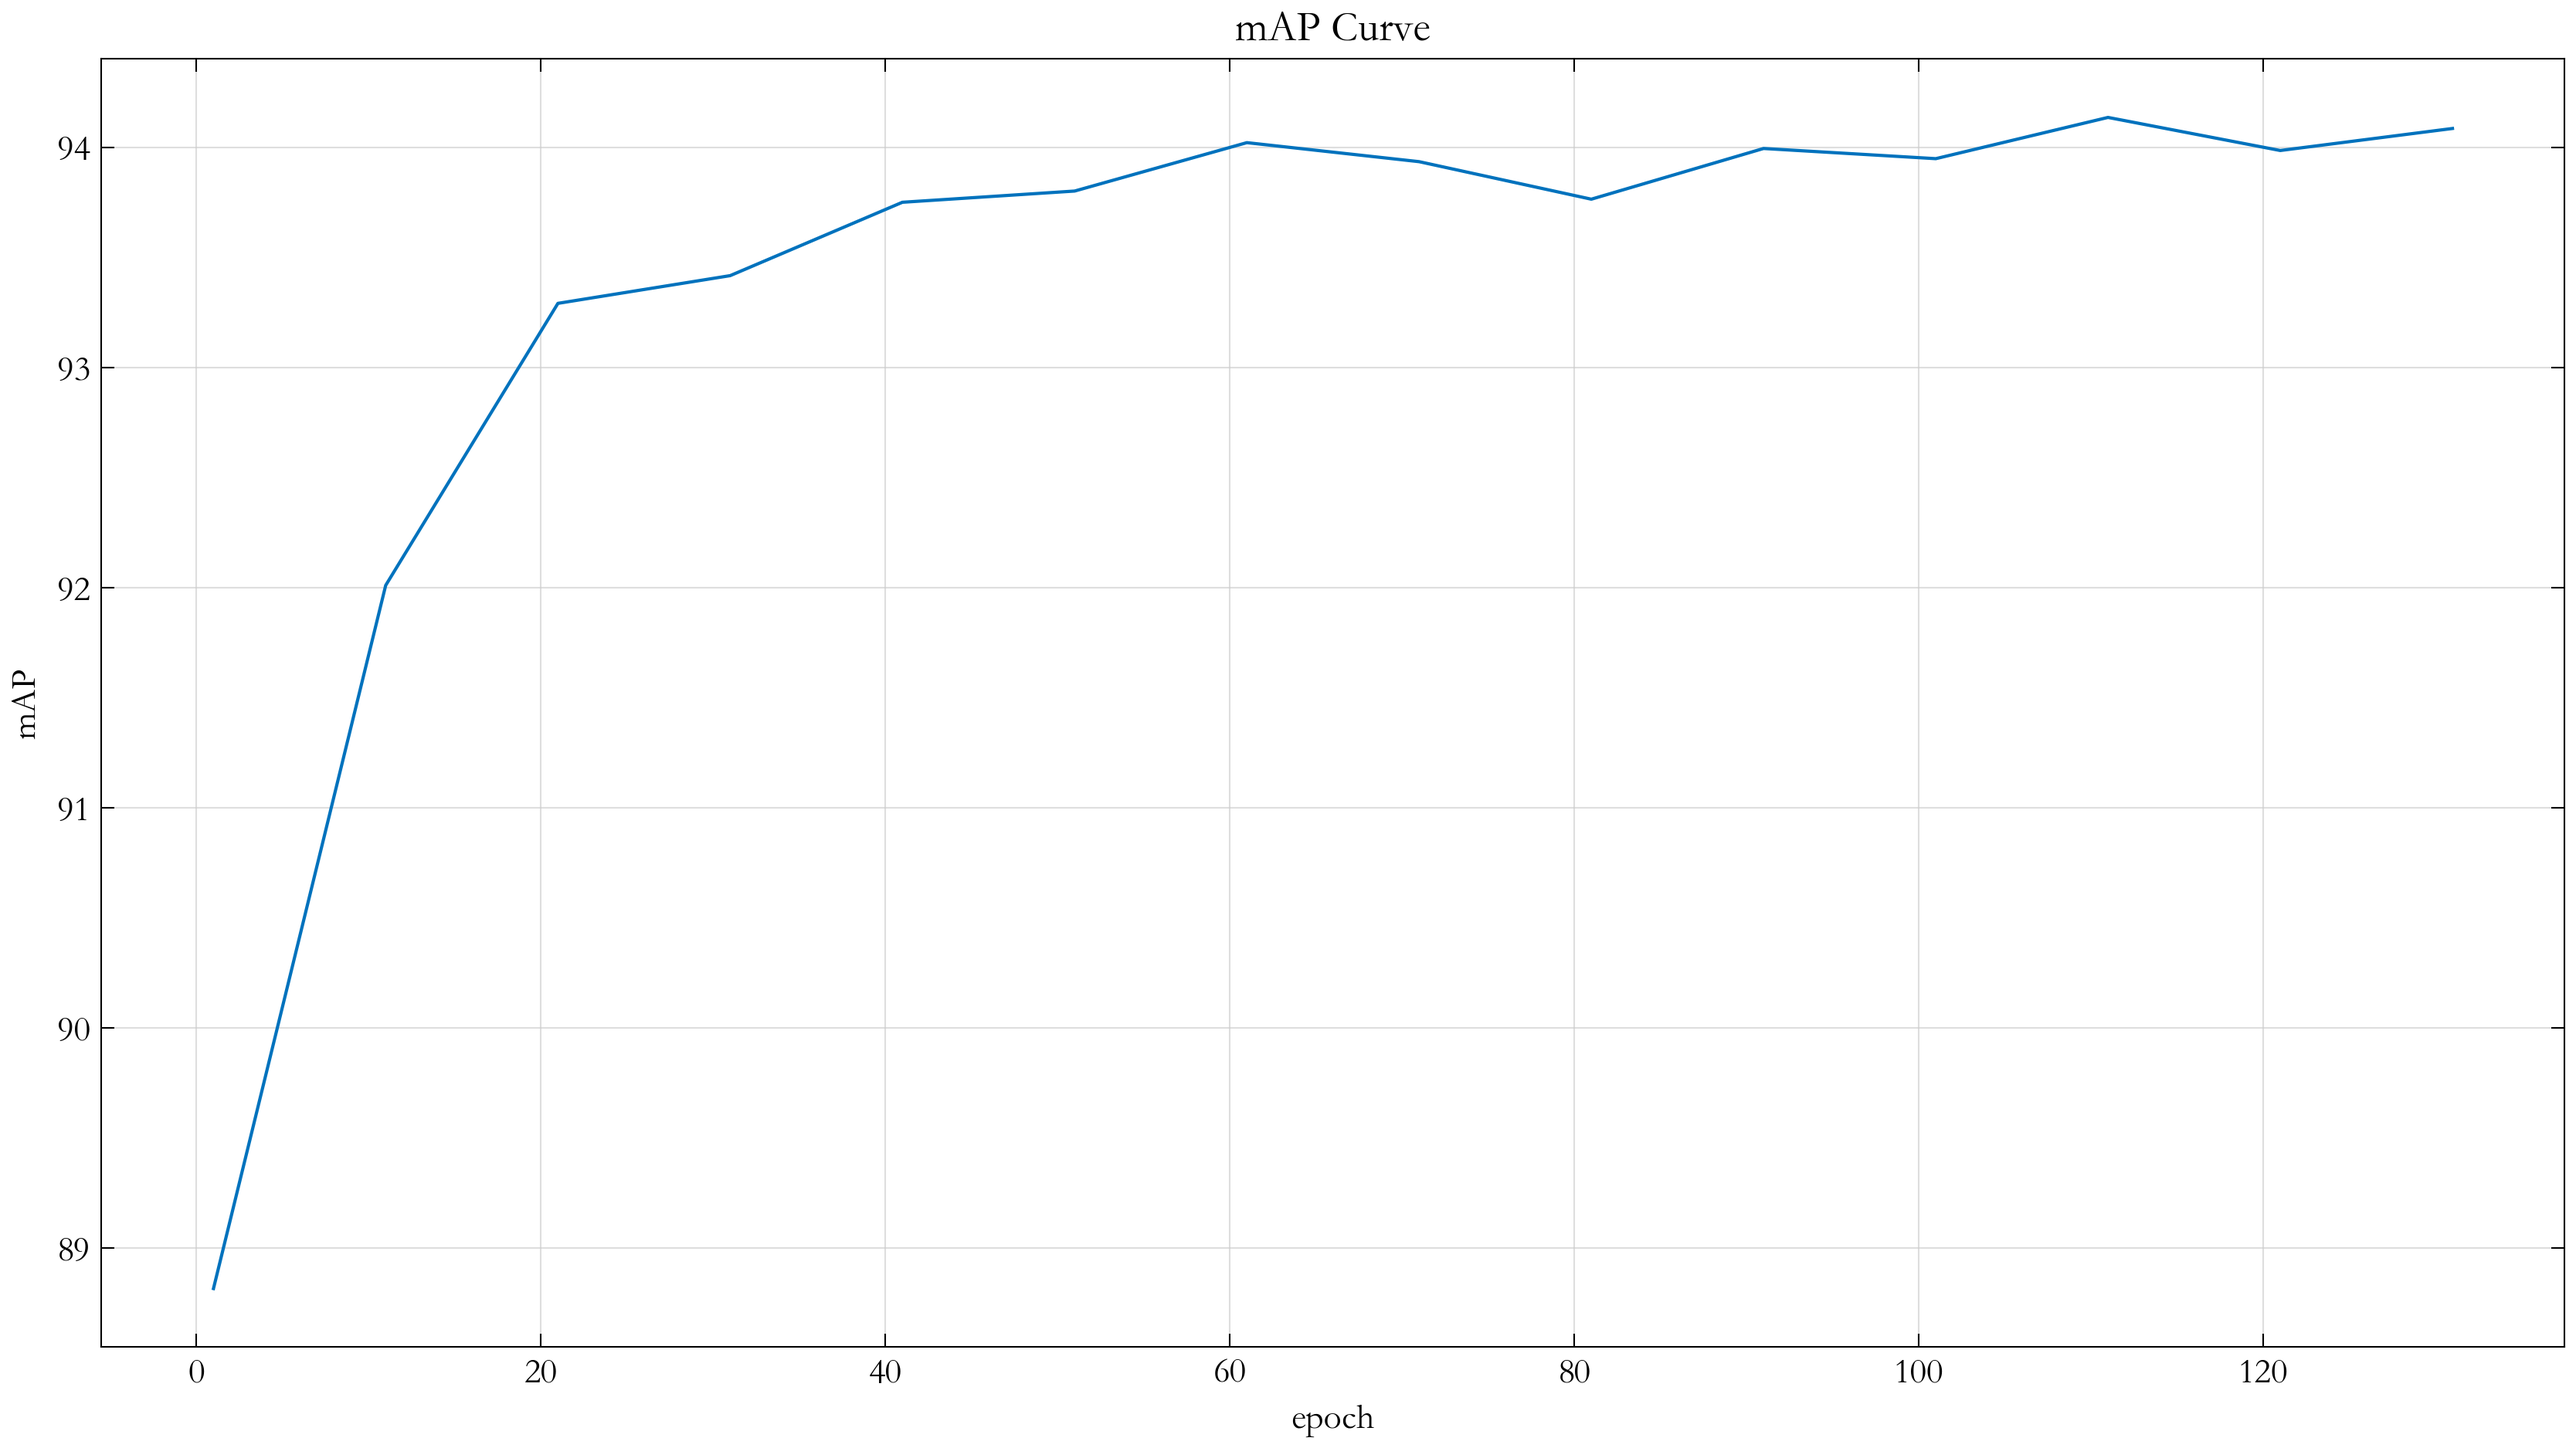
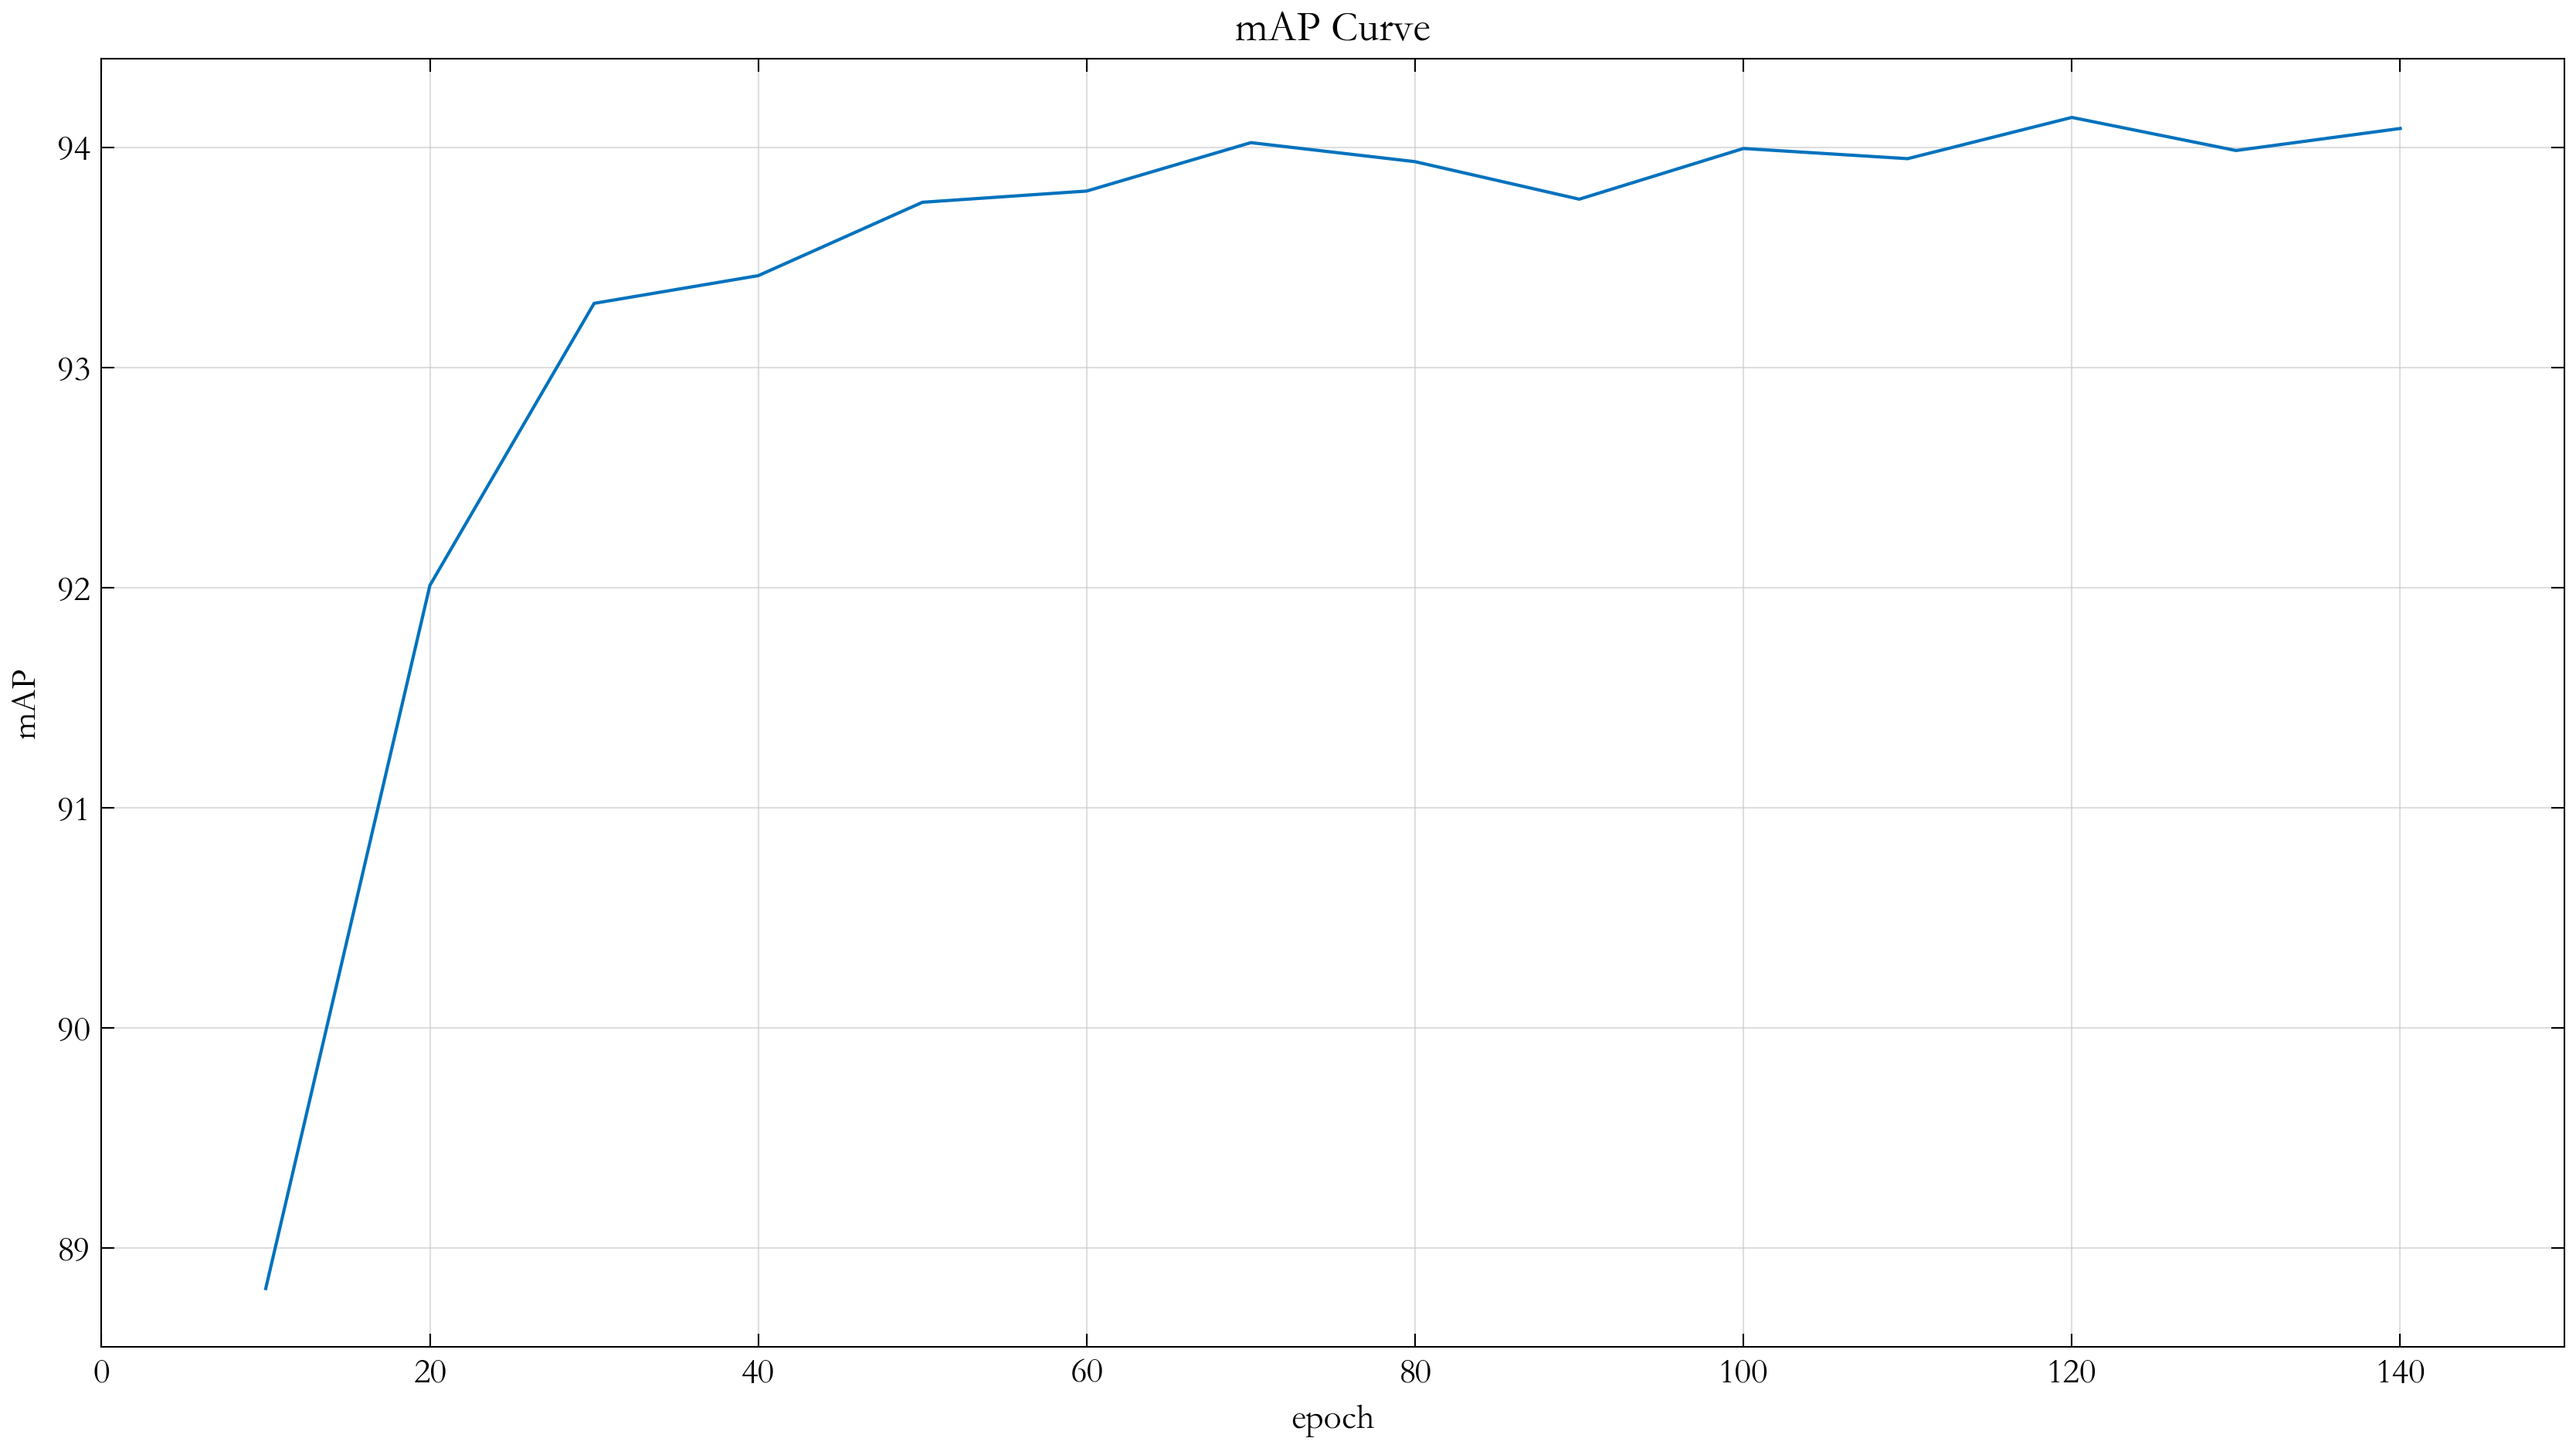
更新 mAP 曲线

diff --git a/algorithm/utils/plot_utils.py b/algorithm/utils/plot_utils.py
@@ -69,6 +69,6 @@ def plot_mAP(file_path: str):
         mAP = json.load(f)
 
     fig, ax = plt.subplots(1, 1, num="mAP 曲线")
-    ax.plot(range(1, len(mAP)*10+1, 10), mAP)
+    ax.plot(range(10, len(mAP)*10+1, 10), mAP)
     ax.set(xlabel="epoch", ylabel="mAP", title="mAP Curve")
     return fig, ax
